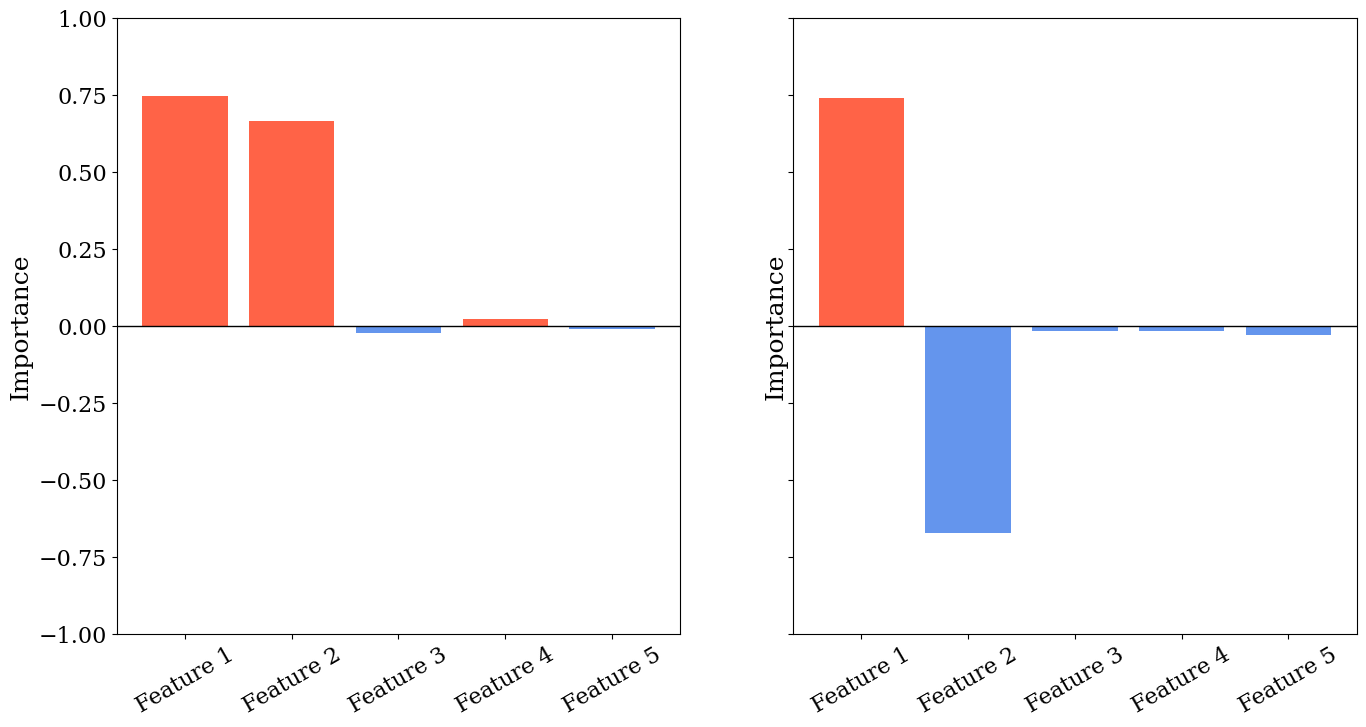
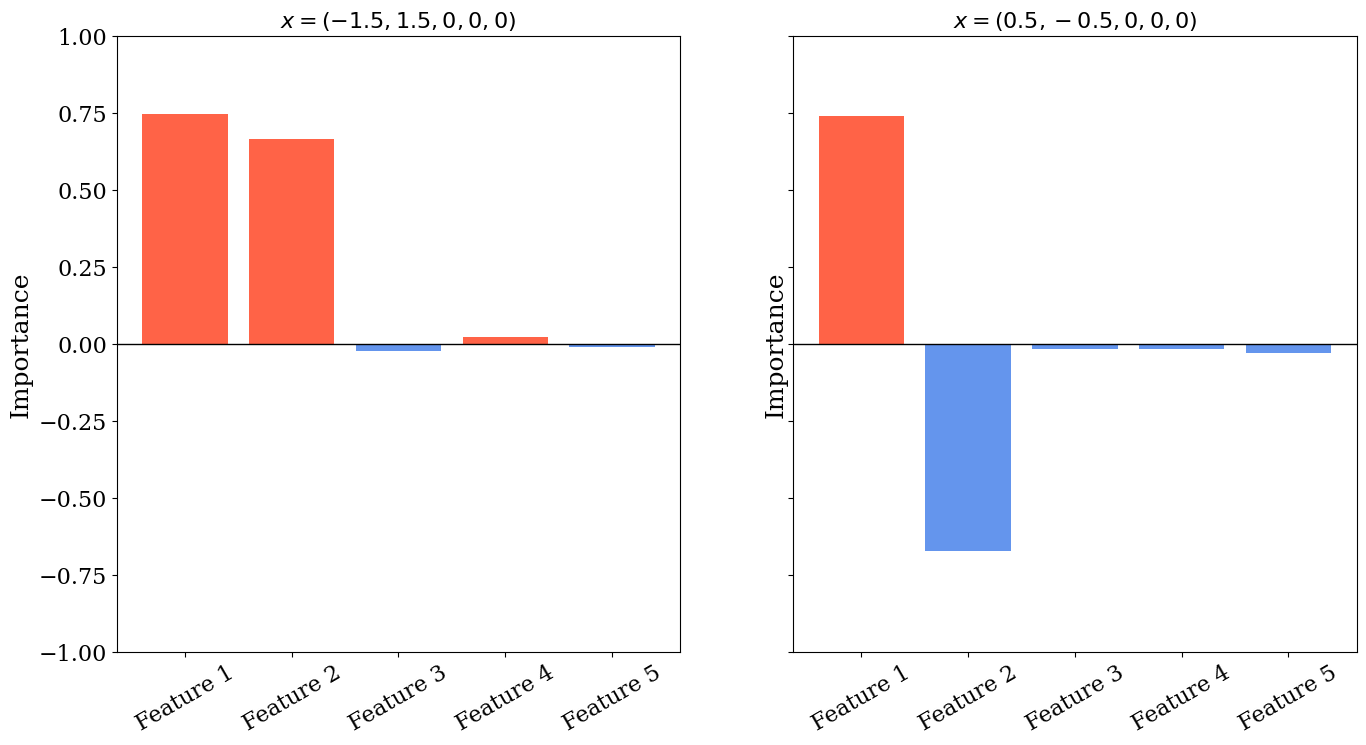
more plots

diff --git a/README.md b/README.md
@@ -120,11 +120,13 @@ fig, ax = plt.subplots(figsize=(16, 18), ncols=2, sharey=True)
 imp_x = drforest.local_subspace_importance(np.array([-1.5, 1.5, 0, 0, 0]))
 imp_x *= np.sign(imp_x[0])  # force loading of first component positive
 plot_single_importance(imp_x, ax=ax[0], rotation=30)
+ax[0].set_title(r'$x = (-1.5, 1.5, 0, 0, 0)$', fontsize=16)
 
 # calculate importance at x = (0.5, -0.5, 0, 0, 0)
 imp_x = drforest.local_subspace_importance(np.array([0.5, -0.5, 0, 0, 0]))
 imp_x *= np.sign(imp_x[0])  # force loading of first component postitive
 plot_single_importance(imp_x, ax=ax[1], rotation=30)
+ax[1].set_title(r'$x = (0.5, -0.5, 0, 0, 0)$', fontsize=16)
 ```
 
 <p align="center">
